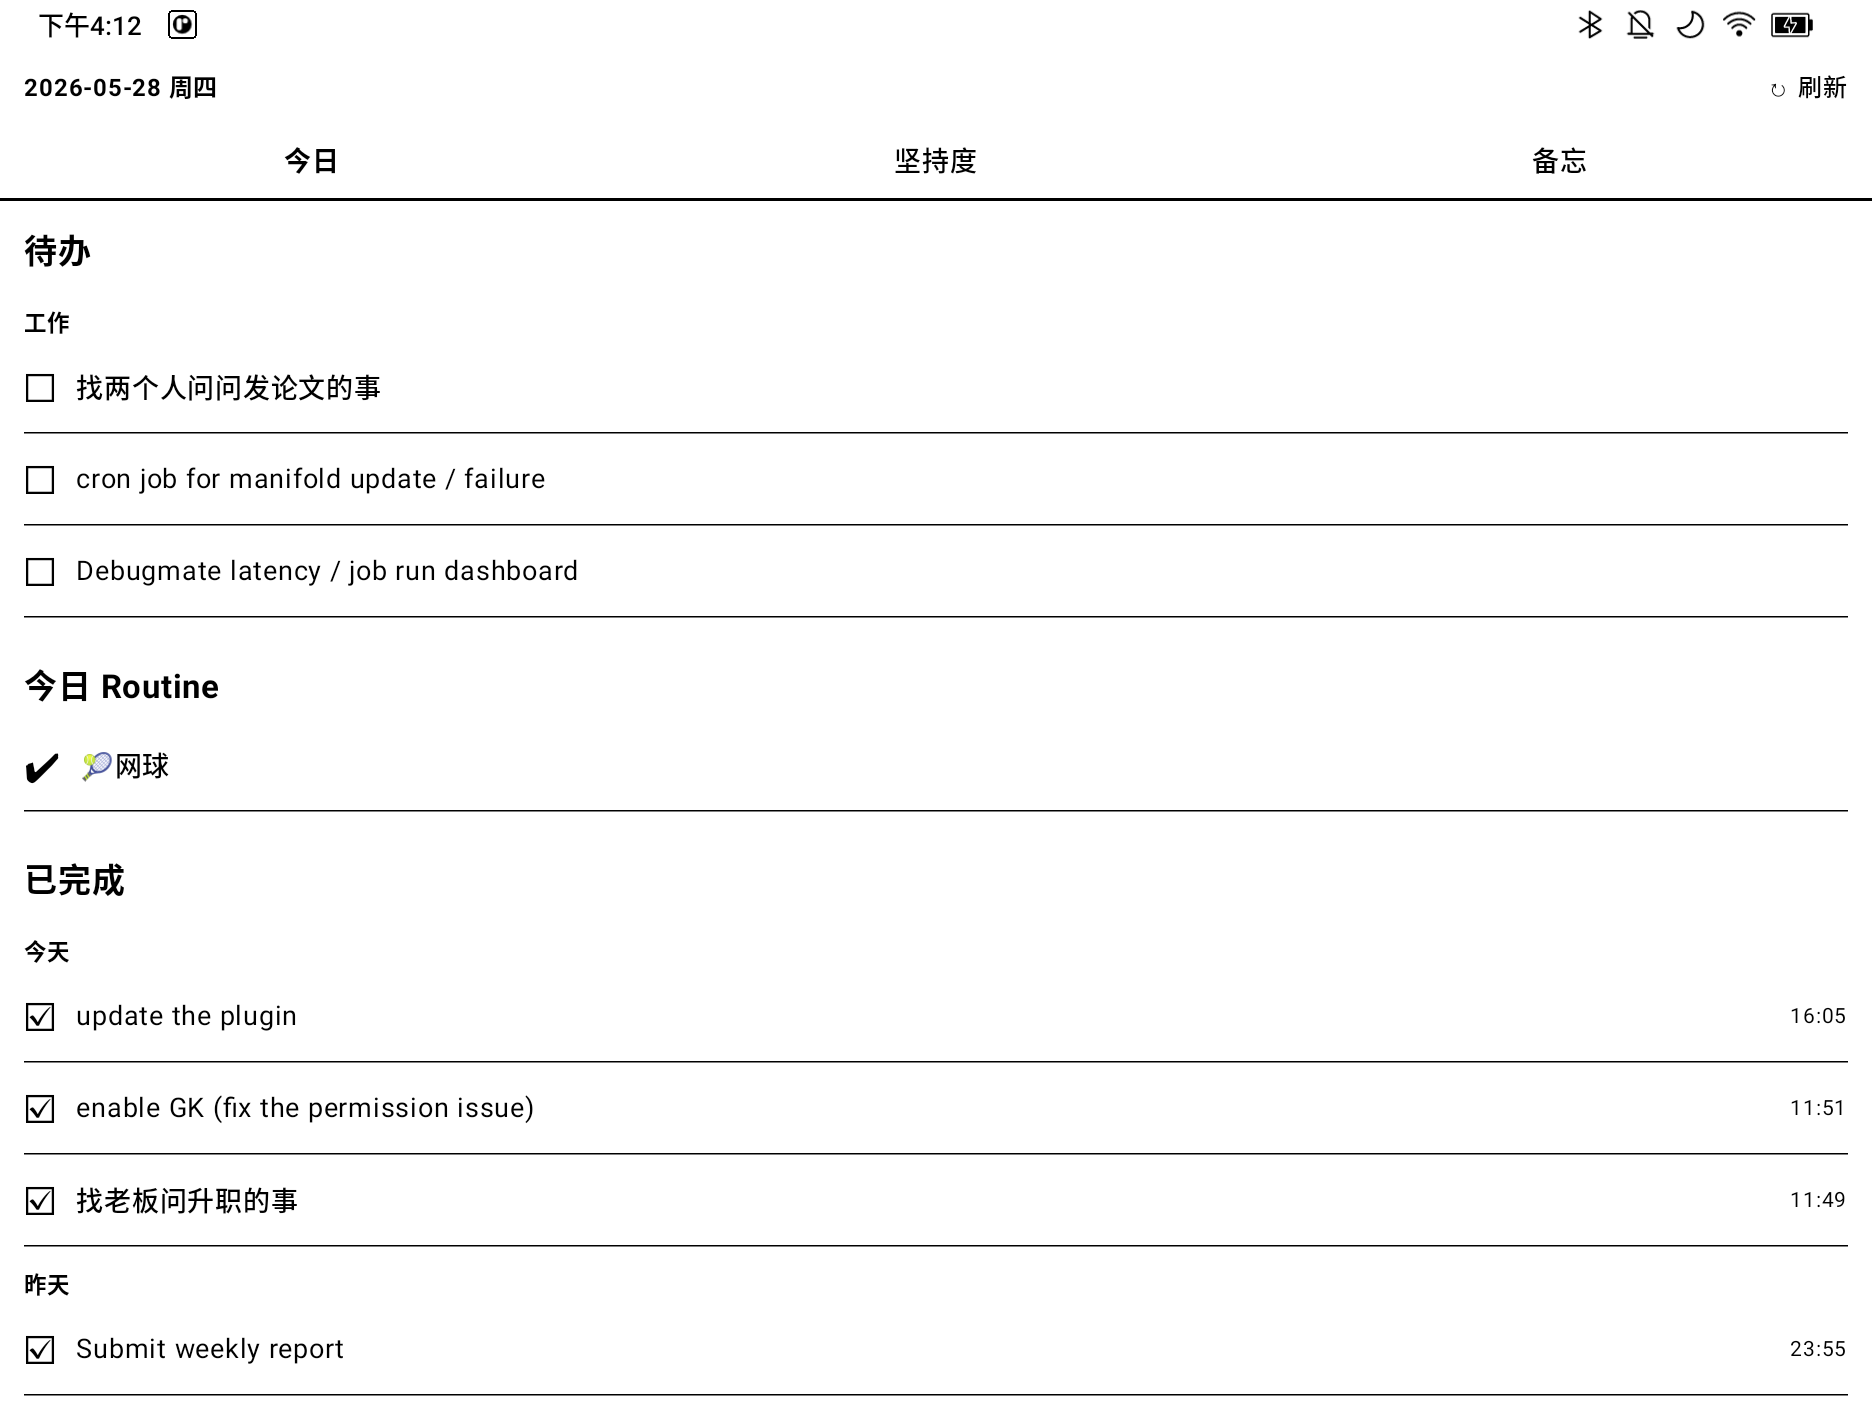
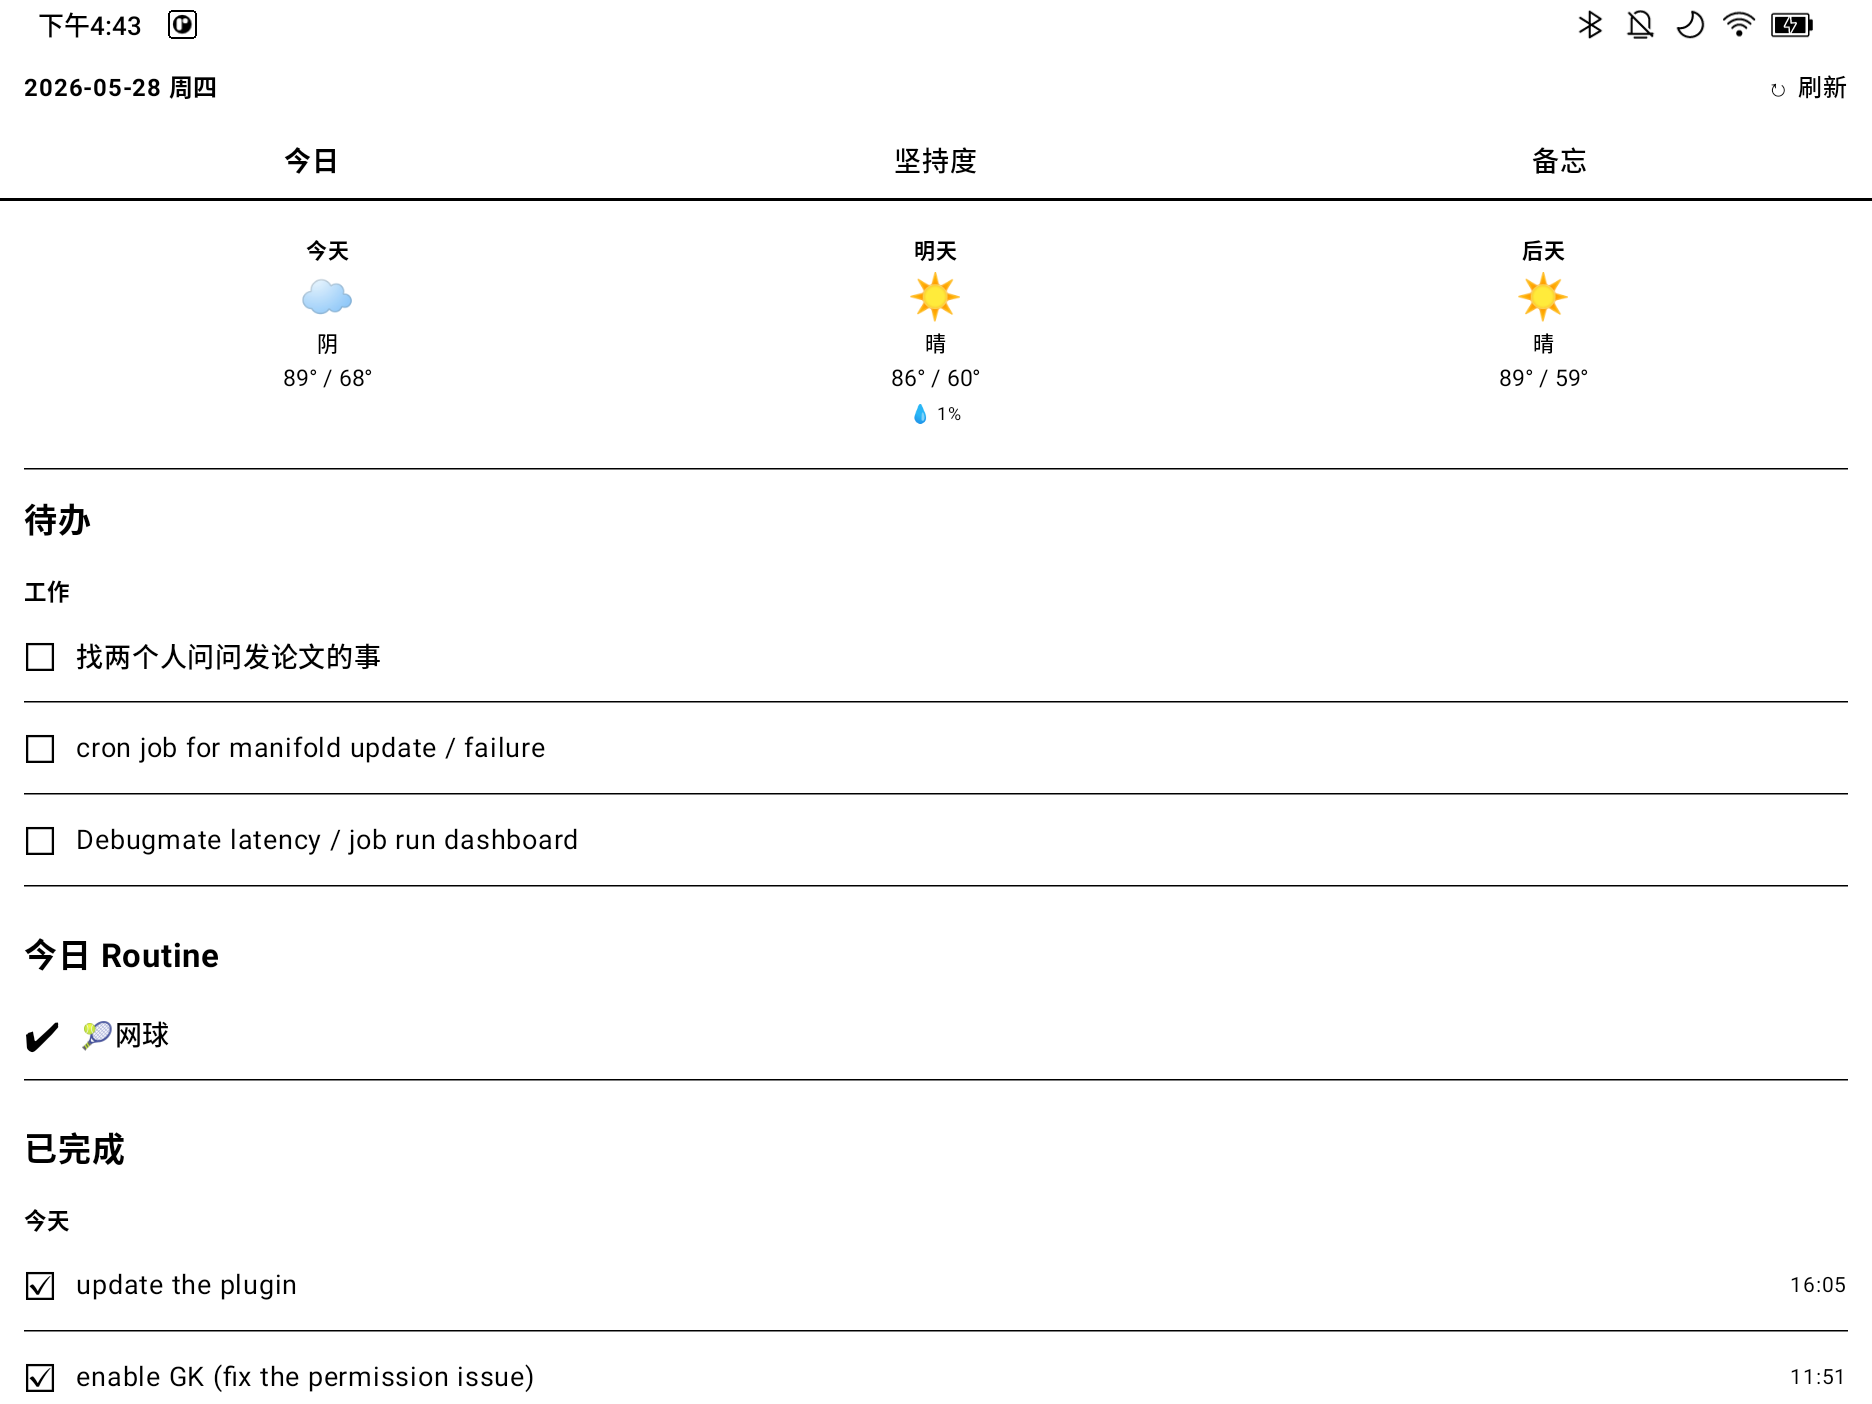
Add 3-day weather + heavy-rain alert to Today screen
Top of 今日 now shows today/tomorrow/day-after weather for Gilbert, AZ
(Open-Meteo, free/no-key): emoji + condition + high/low °F + rain
chance. A bold banner warns when heavy rain / thunderstorm is forecast
in the next 3 days (WMO codes 65/82/95/96/99 or precip ≥ 20mm).

Weather is fetched independently of the task/routine load so an API
hiccup never blanks the lists.

diff --git a/android/app/src/main/java/com/boox/dailytodo/ui/Screens.kt b/android/app/src/main/java/com/boox/dailytodo/ui/Screens.kt
@@ -27,6 +27,7 @@ import androidx.compose.ui.graphics.Color
 import androidx.compose.ui.text.font.FontWeight
 import androidx.compose.ui.unit.dp
 import androidx.compose.ui.unit.sp
+import com.boox.dailytodo.DayWeather
 import com.boox.dailytodo.MainViewModel
 import com.boox.dailytodo.Routine
 import com.boox.dailytodo.Task
@@ -46,6 +47,74 @@ private val HHMM: DateTimeFormatter = DateTimeFormatter.ofPattern("HH:mm")
 private fun completedZdt(iso: String?) =
     iso?.let { runCatching { OffsetDateTime.parse(it).atZoneSameInstant(ZoneId.systemDefault()) }.getOrNull() }
 
+// ---------- weather (WMO code -> emoji + 中文) ----------
+private fun weatherInfo(code: Int): Pair<String, String> = when (code) {
+    0 -> "☀️" to "晴"
+    1, 2 -> "🌤" to "多云"
+    3 -> "☁️" to "阴"
+    45, 48 -> "🌫" to "雾"
+    in 51..57 -> "🌦" to "毛毛雨"
+    61, 63 -> "🌧" to "小雨"
+    65 -> "🌧" to "大雨"
+    66, 67 -> "🌧" to "冻雨"
+    in 71..77 -> "🌨" to "雪"
+    80, 81 -> "🌦" to "阵雨"
+    82 -> "⛈" to "强阵雨"
+    85, 86 -> "🌨" to "阵雪"
+    95 -> "⛈" to "雷暴"
+    96, 99 -> "⛈" to "雷暴冰雹"
+    else -> "❓" to "—"
+}
+
+/** Heavy downpour / storm worth warning about. */
+private fun isHeavyRain(w: DayWeather): Boolean =
+    w.code in setOf(65, 82, 95, 96, 99) || w.precip >= 20.0
+
+@Composable
+fun WeatherStrip(days: List<DayWeather>) {
+    if (days.isEmpty()) return
+    val labels = listOf("今天", "明天", "后天")
+    val alert = days.take(3).withIndex().firstOrNull { isHeavyRain(it.value) }
+
+    alert?.let { (i, w) ->
+        val (_, label) = weatherInfo(w.code)
+        val mm = if (w.precip >= 1.0) "，预计降水 ${w.precip.toInt()}mm" else ""
+        Box(
+            Modifier
+                .fillMaxWidth()
+                .border(3.dp, Color.Black)
+                .padding(12.dp)
+        ) {
+            Text(
+                "⚠️ 大暴雨预警：${labels.getOrElse(i) { "近期" }}有$label$mm，记得带伞 ☔",
+                fontSize = 17.sp,
+                fontWeight = FontWeight.Bold
+            )
+        }
+        Spacer(Modifier.height(12.dp))
+    }
+
+    Row(Modifier.fillMaxWidth()) {
+        days.take(3).forEachIndexed { i, w ->
+            val (emoji, label) = weatherInfo(w.code)
+            Column(
+                Modifier.weight(1f).padding(vertical = 4.dp),
+                horizontalAlignment = Alignment.CenterHorizontally
+            ) {
+                Text(labels.getOrElse(i) { "" }, fontSize = 14.sp, fontWeight = FontWeight.Bold)
+                Spacer(Modifier.height(2.dp))
+                Text(emoji, fontSize = 30.sp)
+                Text(label, fontSize = 14.sp)
+                Text("${w.tMax}° / ${w.tMin}°", fontSize = 15.sp)
+                if (w.precipProb > 0) Text("💧 ${w.precipProb}%", fontSize = 12.sp)
+            }
+        }
+    }
+    Spacer(Modifier.height(20.dp))
+    HorizontalDivider(color = Color.Black, thickness = 1.dp)
+    Spacer(Modifier.height(16.dp))
+}
+
 @Composable
 fun TodayScreen(vm: MainViewModel) {
     val today = LocalDate.now()
@@ -57,6 +126,7 @@ fun TodayScreen(vm: MainViewModel) {
             .verticalScroll(rememberScrollState())
             .padding(16.dp)
     ) {
+        WeatherStrip(vm.weather)
         // 今日待办: 未完成、非备忘、无到期日或已到期 (未来日期的任务等到当天才出现)
         val pending = vm.tasks.filter {
             !it.done && !it.memo && (it.dueDate == null || it.dueDate <= todayStr)

diff --git a/android/app/src/main/java/com/boox/dailytodo/Repository.kt b/android/app/src/main/java/com/boox/dailytodo/Repository.kt
@@ -11,8 +11,10 @@ import okhttp3.OkHttpClient
 import okhttp3.Request
 import okhttp3.RequestBody
 import okhttp3.RequestBody.Companion.toRequestBody
+import kotlinx.serialization.Serializable
 import java.time.Instant
 import java.util.concurrent.TimeUnit
+import kotlin.math.roundToInt
 
 /** Thin Supabase PostgREST client. All calls run on Dispatchers.IO. */
 class Repository {
@@ -85,4 +87,39 @@ class Repository {
             exec(request(url, "DELETE"))
         }
     }
+
+    suspend fun getWeather(): List<DayWeather> = withContext(Dispatchers.IO) {
+        // Open-Meteo: free, no API key. Fixed to Gilbert, AZ.
+        val url = "https://api.open-meteo.com/v1/forecast" +
+            "?latitude=33.3528&longitude=-111.789" +
+            "&daily=weather_code,temperature_2m_max,temperature_2m_min," +
+            "precipitation_sum,precipitation_probability_max" +
+            "&timezone=America%2FPhoenix&forecast_days=3" +
+            "&temperature_unit=fahrenheit&precipitation_unit=mm"
+        val req = Request.Builder().url(url).header("Accept", "application/json").get().build()
+        val d = json.decodeFromString<WeatherResponse>(exec(req)).daily
+        d.time.indices.map { i ->
+            DayWeather(
+                date = d.time[i],
+                code = d.weatherCode.getOrElse(i) { 0 },
+                tMax = d.tMax.getOrElse(i) { 0.0 }.roundToInt(),
+                tMin = d.tMin.getOrElse(i) { 0.0 }.roundToInt(),
+                precip = d.precip.getOrElse(i) { 0.0 },
+                precipProb = d.precipProb.getOrElse(i) { null } ?: 0,
+            )
+        }
+    }
 }
+
+@Serializable
+private data class WeatherResponse(val daily: WeatherDaily)
+
+@Serializable
+private data class WeatherDaily(
+    val time: List<String> = emptyList(),
+    @kotlinx.serialization.SerialName("weather_code") val weatherCode: List<Int> = emptyList(),
+    @kotlinx.serialization.SerialName("temperature_2m_max") val tMax: List<Double> = emptyList(),
+    @kotlinx.serialization.SerialName("temperature_2m_min") val tMin: List<Double> = emptyList(),
+    @kotlinx.serialization.SerialName("precipitation_sum") val precip: List<Double> = emptyList(),
+    @kotlinx.serialization.SerialName("precipitation_probability_max") val precipProb: List<Int?> = emptyList(),
+)

diff --git a/android/app/src/main/java/com/boox/dailytodo/Models.kt b/android/app/src/main/java/com/boox/dailytodo/Models.kt
@@ -34,3 +34,13 @@ data class RoutineLog(
     val date: String,        // YYYY-MM-DD
     val done: Boolean = true,
 )
+
+/** One day of forecast (from Open-Meteo). */
+data class DayWeather(
+    val date: String,      // YYYY-MM-DD
+    val code: Int,         // WMO weather code
+    val tMax: Int,         // °F
+    val tMin: Int,         // °F
+    val precip: Double,    // mm
+    val precipProb: Int,   // %
+)

diff --git a/android/app/src/main/java/com/boox/dailytodo/MainViewModel.kt b/android/app/src/main/java/com/boox/dailytodo/MainViewModel.kt
@@ -19,6 +19,8 @@ class MainViewModel : ViewModel() {
         private set
     var logs by mutableStateOf<List<RoutineLog>>(emptyList())
         private set
+    var weather by mutableStateOf<List<DayWeather>>(emptyList())
+        private set
     var loading by mutableStateOf(false)
         private set
     var error by mutableStateOf<String?>(null)
@@ -48,6 +50,12 @@ class MainViewModel : ViewModel() {
             } finally {
                 loading = false
             }
+        }
+        // Weather fetched separately so a weather hiccup never blanks the tasks.
+        viewModelScope.launch {
+            try {
+                weather = repo.getWeather()
+            } catch (_: Exception) { /* ignore weather errors */ }
         }
     }
 